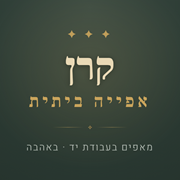
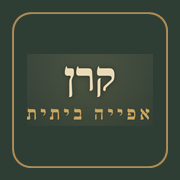
תיקון: כפתור הנגישות חזר (המשתנה עבר ל-:root — הכפתור מחובר ל-html ולא ל-body); ✕ בסרגל הסל מרענן מיד; אייקון האפליקציה = "קרן אפייה ביתית" במסגרת זהב

diff --git a/index.html b/index.html
@@ -126,8 +126,8 @@ section{padding:48px 20px}.cont{max-width:1100px;margin:0 auto}
 .bt{font-family:'Cormorant Garamond',serif;font-size:22px;color:var(--gl);font-weight:600}
 .btw{display:inline-flex;align-items:center;gap:8px;background:#25D366;color:#fff;padding:12px 22px;border-radius:30px;font-weight:600;font-size:15px;border:none;cursor:pointer;font-family:'Heebo',sans-serif}
 .btw svg{width:20px;height:20px;fill:currentColor}
-body{--fab-b:22px}
-body.cart-open{--fab-b:94px}
+:root{--fab-b:22px}
+:root.cart-open{--fab-b:94px}
 .fwa{position:fixed;bottom:var(--fab-b);left:16px;z-index:80;width:56px;height:56px;border-radius:50%;background:#25D366;color:#fff;display:flex;align-items:center;justify-content:center;box-shadow:0 10px 30px rgba(37,211,102,.45);animation:p 2.5s infinite}
 .fwa svg{width:30px;height:30px;fill:#fff}
 @keyframes p{0%{box-shadow:0 0 0 0 rgba(37,211,102,.55)}70%{box-shadow:0 0 0 18px rgba(37,211,102,0)}100%{box-shadow:0 0 0 0 rgba(37,211,102,0)}}
@@ -166,7 +166,7 @@ footer .bs{color:#bda77f;margin-bottom:18px}
 .cn:hover{color:#fff}
 .cn .ic{width:36px;height:36px;border-radius:50%;background:var(--gold);color:var(--bk);display:flex;align-items:center;justify-content:center;font-size:16px}
 .cr{font-size:12px;color:#7a6a52;margin-top:18px;opacity:.8}
-@media (max-width:600px){.bl{font-size:56px}.fr{grid-template-columns:1fr}.oc{padding:22px}section{padding:36px 16px}.hero{padding:44px 16px 32px}.st h2{font-size:28px}.fwa{left:14px;width:52px;height:52px}.cad-a11y-btn{right:14px;width:52px;height:52px}body{--fab-b:18px}body.cart-open{--fab-b:88px}}
+@media (max-width:600px){.bl{font-size:56px}.fr{grid-template-columns:1fr}.oc{padding:22px}section{padding:36px 16px}.hero{padding:44px 16px 32px}.st h2{font-size:28px}.fwa{left:14px;width:52px;height:52px}.cad-a11y-btn{right:14px;width:52px;height:52px}:root{--fab-b:18px}:root.cart-open{--fab-b:88px}}
 /* ===== custom availability calendar ===== */
 .date-display{width:100%;text-align:right;padding:12px 14px;border:1px solid #e0c9a6;border-radius:10px;background:#fff;font-size:15px;color:#3a2f1f;cursor:pointer;font-family:inherit}
 .date-display.has{font-weight:600}
@@ -691,7 +691,16 @@ function renderCartStrip(lines){
       +'</div>';
   }).join('')
     +(lines.length>shown.length?'<span class="bmore">+'+(lines.length-shown.length)+' נוספים</span>':'');
-  el.querySelectorAll('.bx').forEach(function(b){ b.onclick=function(){ setQty(b.dataset.rid, b.dataset.rflav, 0); }; });
+  el.querySelectorAll('.bx').forEach(function(b){
+    b.onclick=function(){
+      const id=b.dataset.rid, flav=b.dataset.rflav||'';
+      setQty(id, flav, 0);
+      // מרעננים מיד: גם שדה הכמות בכרטיס המוצר וגם הסרגל/הסיכום (setQty רק משנה את הסל)
+      const inp=document.querySelector('.qi[data-id="'+id+'"][data-flav="'+flav+'"]');
+      if(inp) inp.value=0;
+      upd();
+    };
+  });
 }
 
 function upd(){
@@ -709,7 +718,7 @@ function upd(){
   const dl=calcD(sub),tot=sub+dl;
   try{window.caCartSub=sub;}catch(e){}
   $('#bar').classList.toggle('vis',sub>0);
-  document.body.classList.toggle('cart-open',sub>0);
+  document.documentElement.classList.toggle('cart-open',sub>0);
   $('#sc').textContent=cnt+' פריטים';$('#st').textContent=fmt(tot);
   renderCartStrip(lines);
   const lst=$('#ol-lines');
